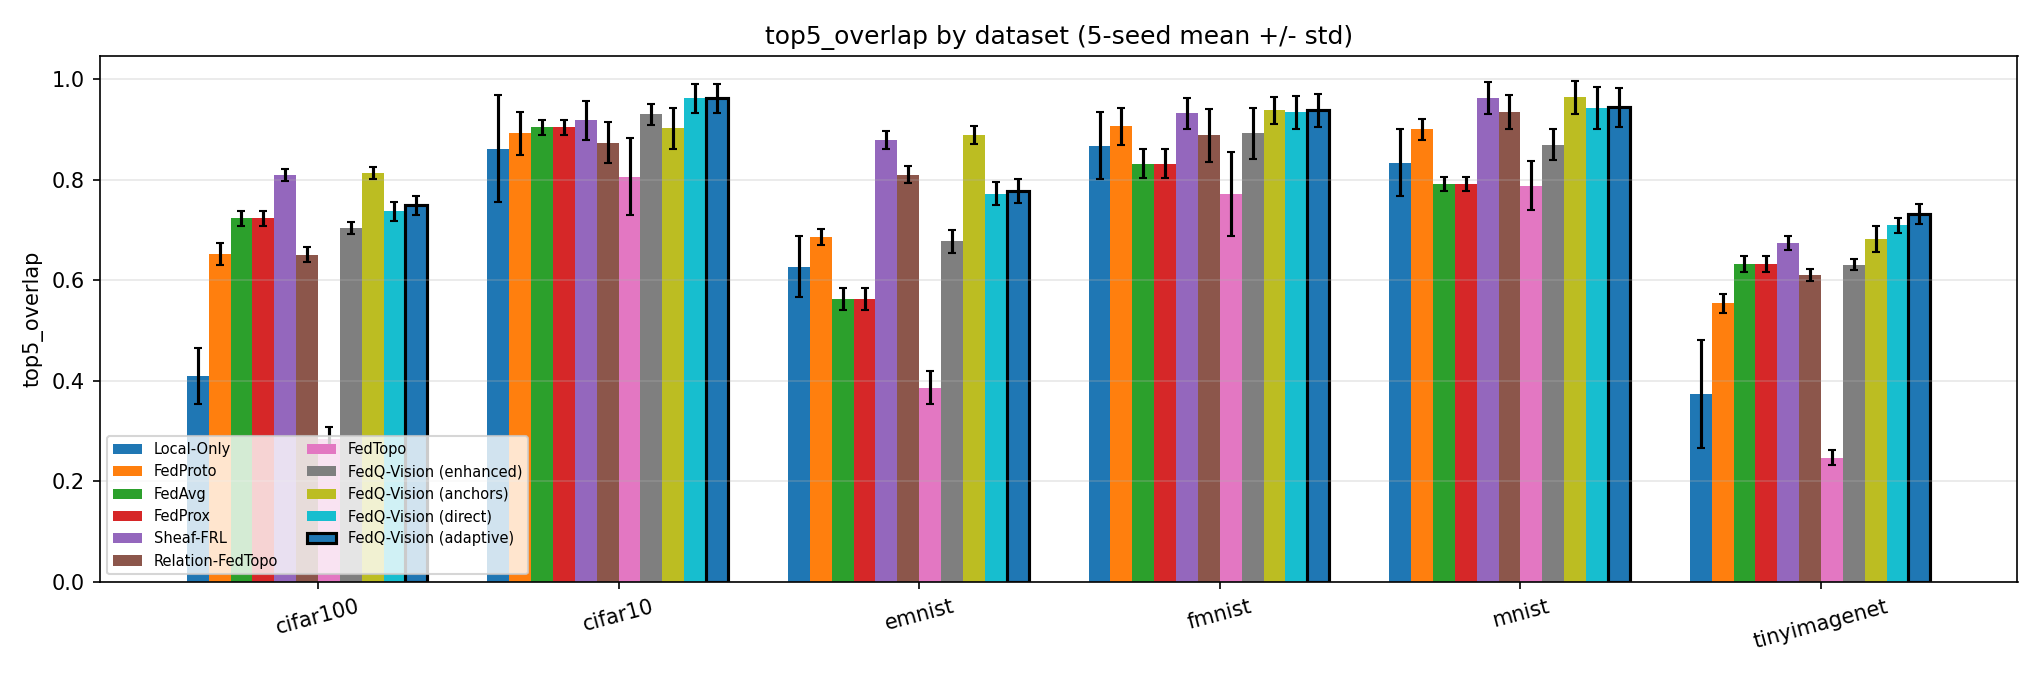
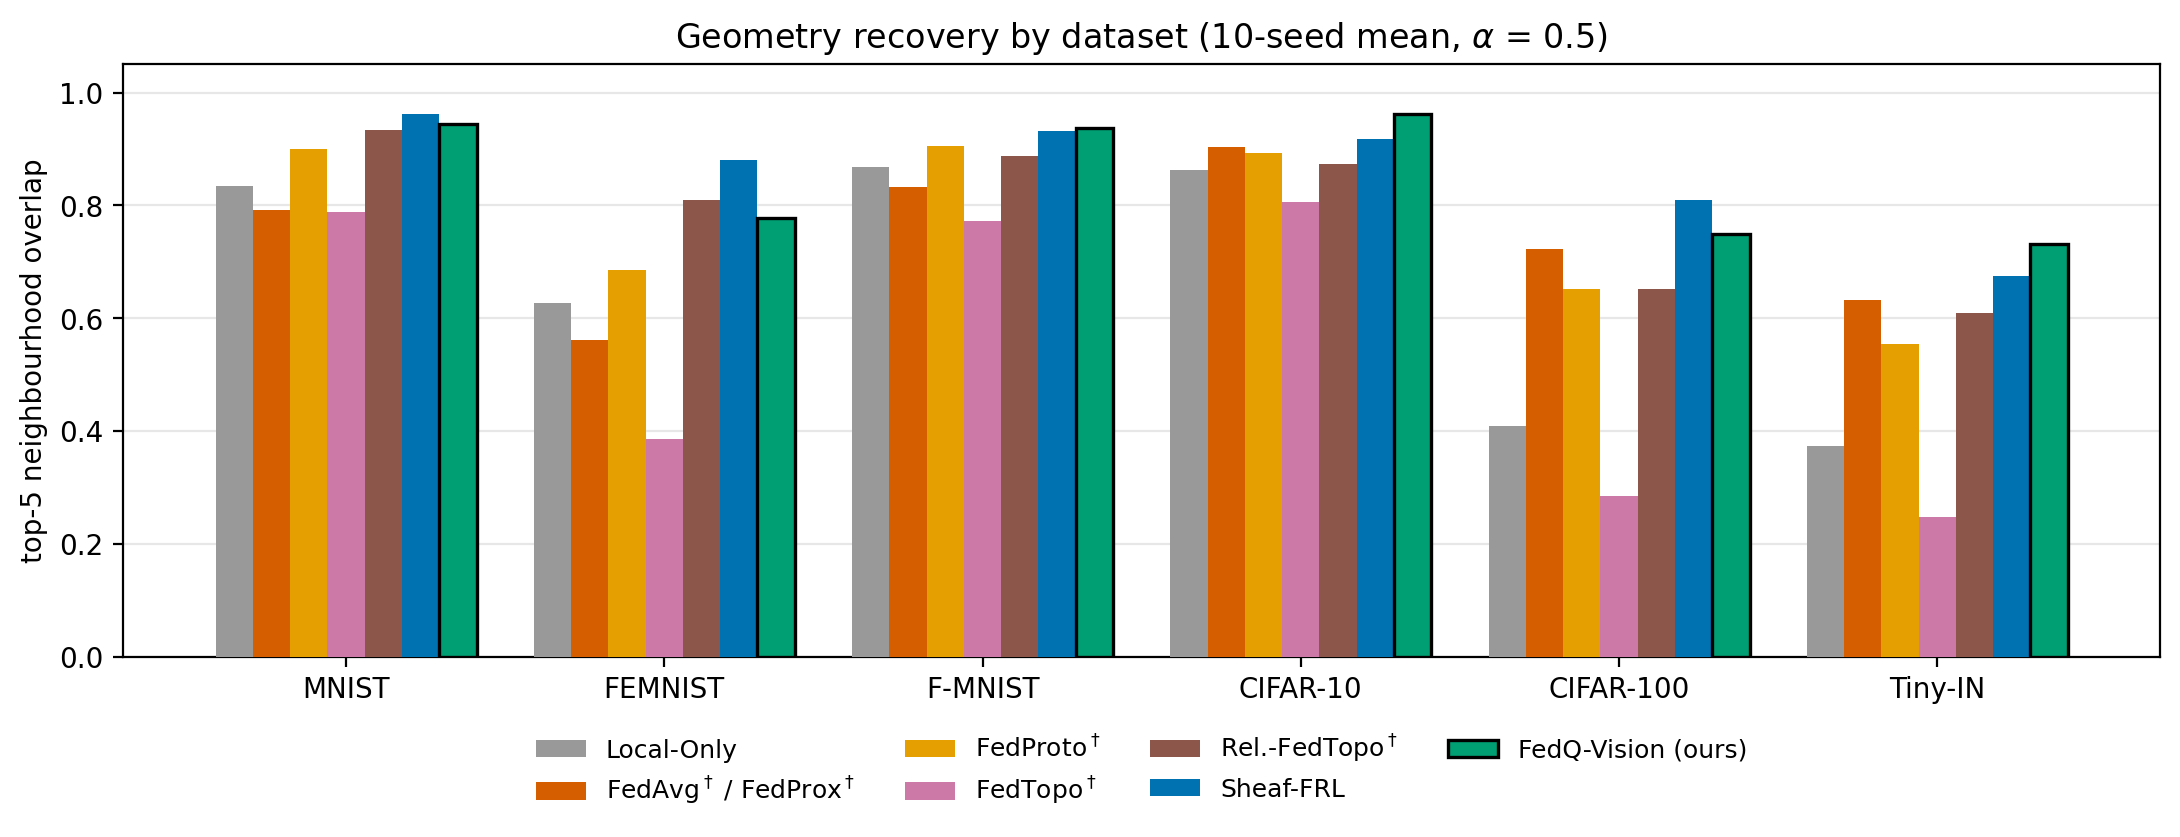
Rebuild the per-dataset geometry chart with the legend below the axes
Claude-Session: https://claude.ai/code/session_01XJBJXhKo9TDpL4fc49huFE

diff --git a/index.html b/index.html
@@ -277,10 +277,10 @@
       <div class="columns is-centered has-text-centered">
         <div class="column is-four-fifths">
           <div class="publication-image">
-            <img src="static/images/top5_by_dataset.png" alt="Grouped bar chart of top-5 neighbourhood overlap per dataset for every method, with error bars" style="width: 100%; height: auto;">
+            <img src="static/images/top5_by_dataset.png" alt="Grouped bar chart of top-5 neighbourhood overlap per dataset for every method" style="width: 100%; height: auto;">
           </div>
           <p class="description">
-            Top-5 neighbourhood overlap against the centralized consensus oracle, per dataset, with seed variability. Beyond a single accuracy number, this asks how much of the <i>full</i> class-relation geometry each method recovers &mdash; and here the result is an honest split rather than a clean sweep. FedQ-Vision gives the strongest recovery on CIFAR-10 (0.962), Tiny-ImageNet (0.732) and Fashion-MNIST (0.938), while the iterative, alignment-based Sheaf-FRL leads on MNIST, FEMNIST and CIFAR-100, in each case by a small margin. Sheaf-FRL performs ten rounds of Procrustes alignment; matching or exceeding it on half the datasets with a <b>single alignment-free round</b> is the intended outcome. Per metric, the whitened-anchor variant is best on local-neighbourhood and absolute-scale recovery, while the learnable-gate flagship gives the most faithful pairwise-distance <i>ordering</i> (Spearman).
+            Top-5 neighbourhood overlap against the centralized consensus oracle, per dataset, 10-seed means at Dirichlet &alpha;&nbsp;=&nbsp;0.5 (FedAvg<sup>&dagger;</sup> and FedProx<sup>&dagger;</sup> coincide and share a bar). Beyond a single accuracy number, this asks how much of the <i>full</i> class-relation geometry each method recovers &mdash; and here the result is an honest split rather than a clean sweep. FedQ-Vision gives the strongest recovery on CIFAR-10 (0.962), Tiny-ImageNet (0.732) and Fashion-MNIST (0.938), while the iterative, alignment-based Sheaf-FRL leads on MNIST, FEMNIST and CIFAR-100, in each case by a small margin. Sheaf-FRL performs ten rounds of Procrustes alignment; matching or exceeding it on half the datasets with a <b>single alignment-free round</b> is the intended outcome. Per metric, the whitened-anchor variant is best on local-neighbourhood and absolute-scale recovery, while the learnable-gate flagship gives the most faithful pairwise-distance <i>ordering</i> (Spearman).
           </p>
         </div>
       </div>
